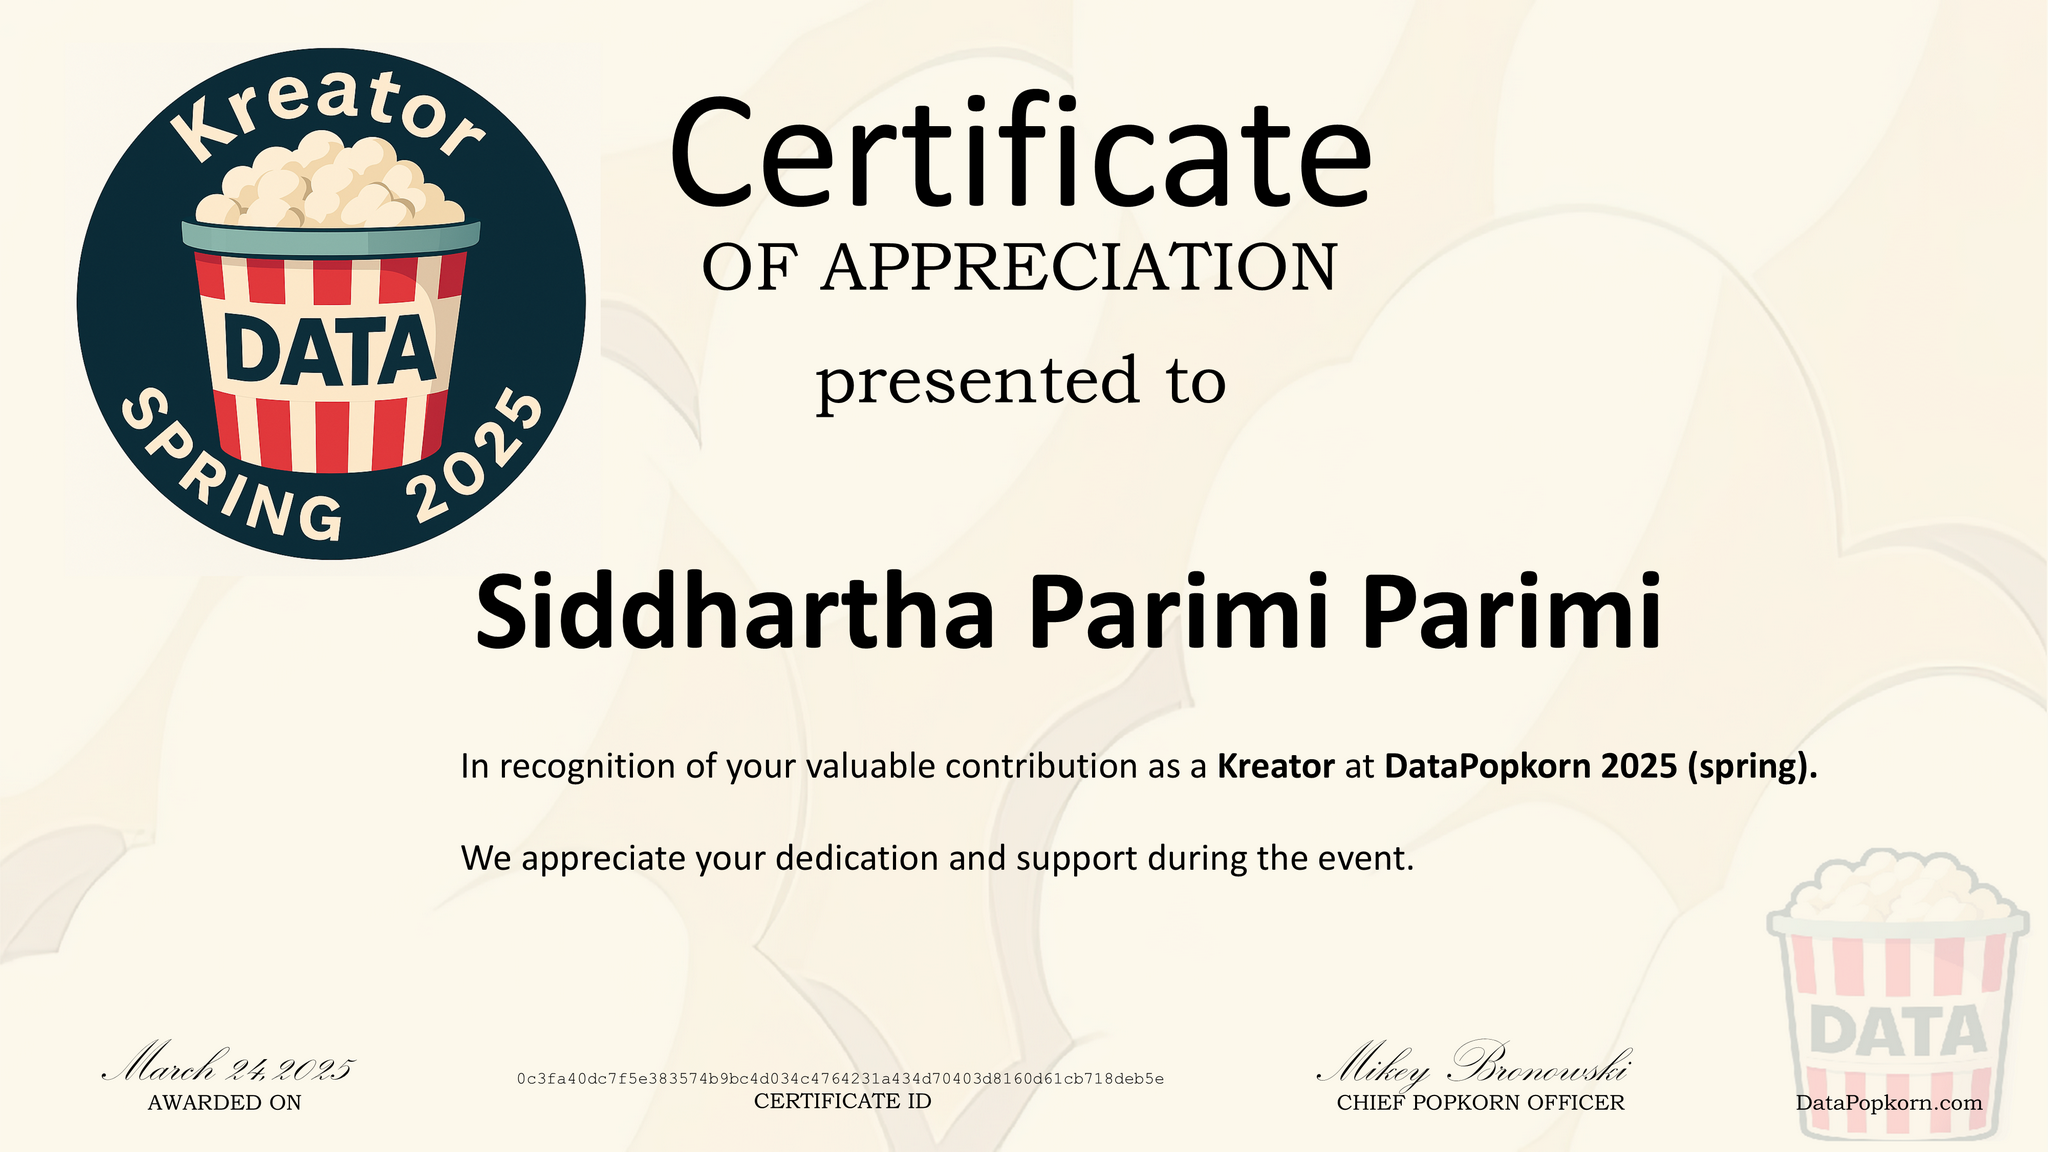
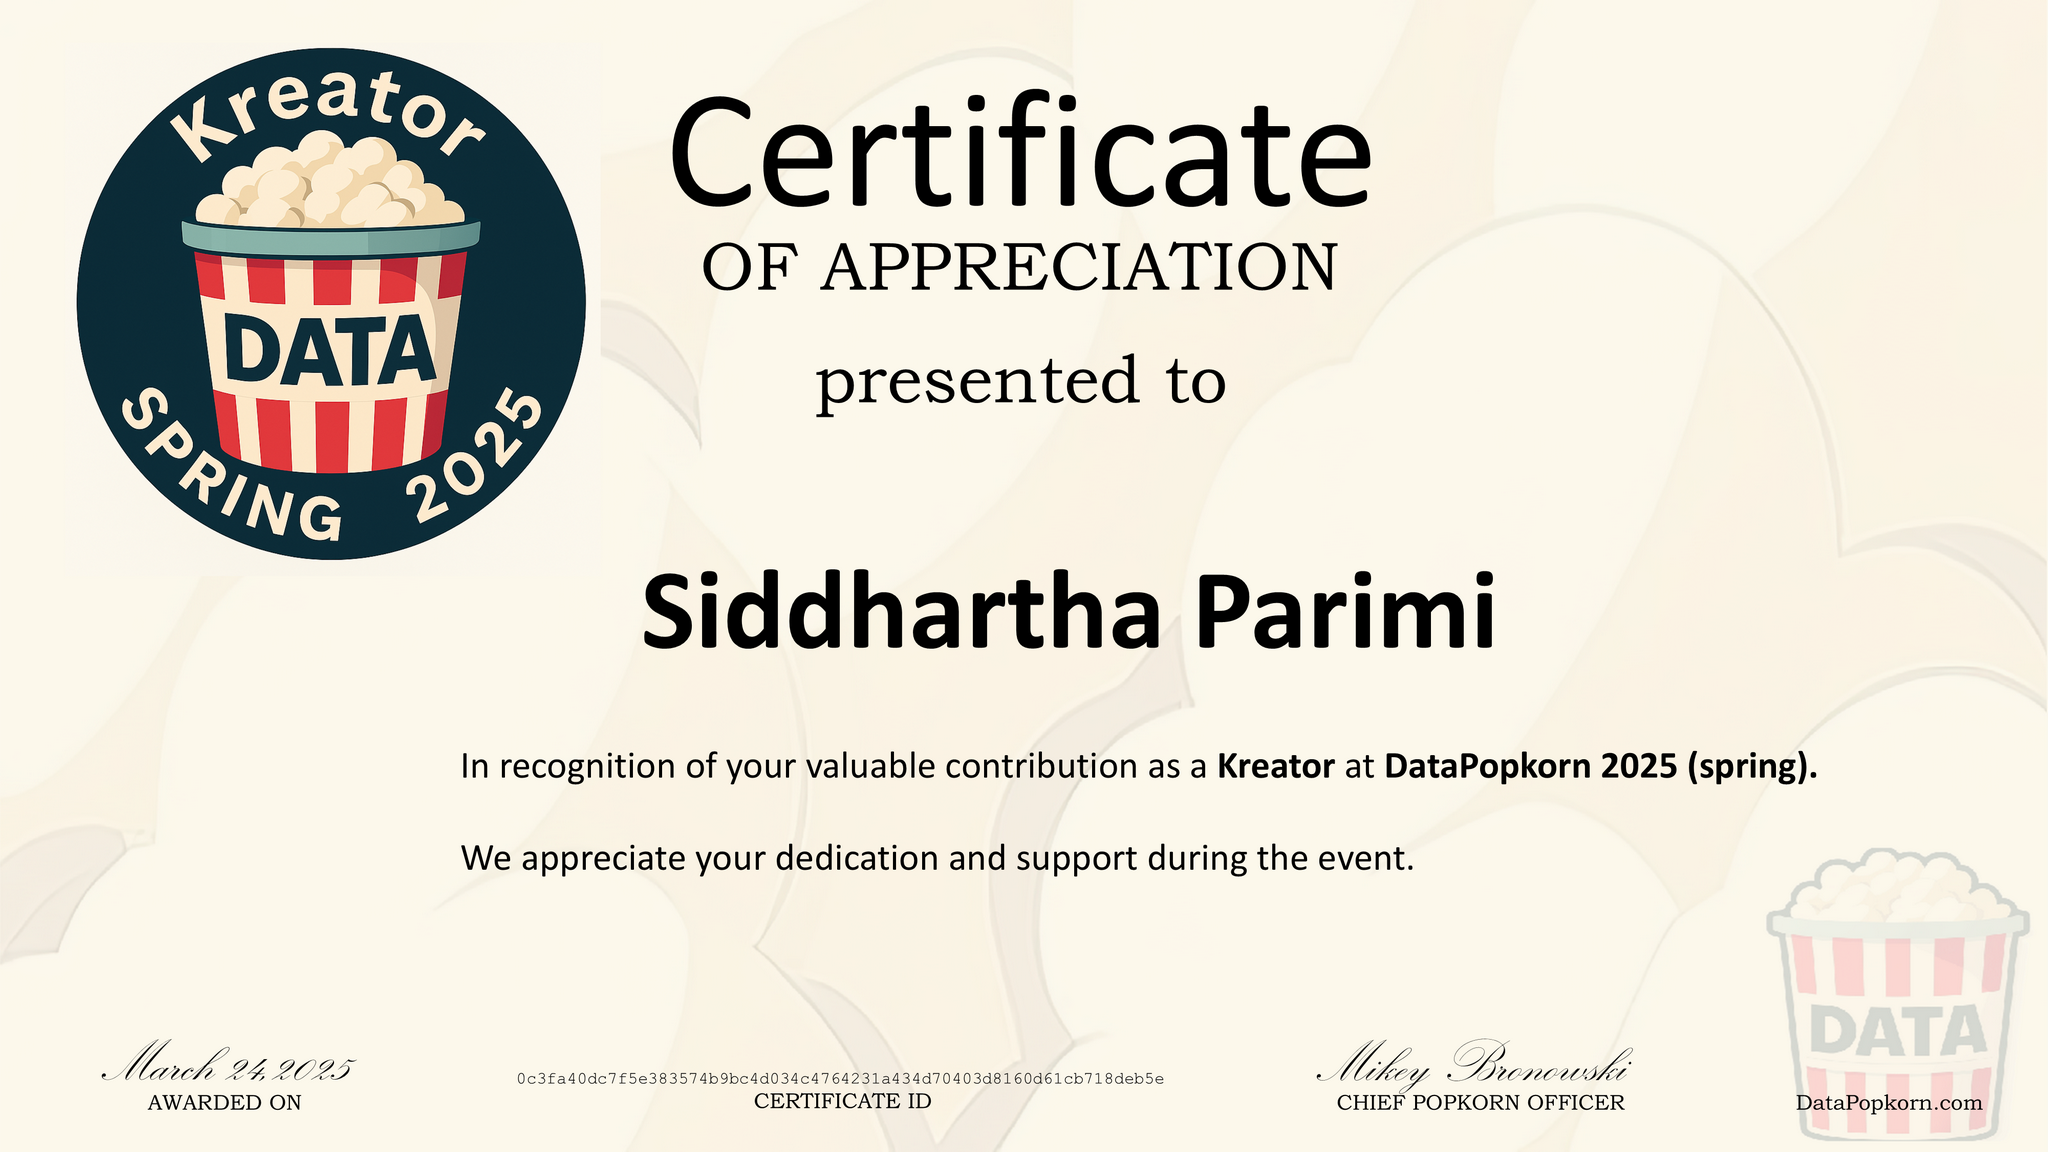
kreator/siddhartha-parimi.html

Changed region(s): [[0.2188, 0.5, 0.8125, 0.5625]]

diff --git a/badge/0c3fa40dc7f5e383574b9bc4d034c4764231a434d70403d8160d61cb718deb5e.html b/badge/0c3fa40dc7f5e383574b9bc4d034c4764231a434d70403d8160d61cb718deb5e.html
@@ -9,7 +9,7 @@
 </head>
 <body>
   <h1>DataPopKorn Kreator Badge</h1>
-  <p>This badge was issued to <a href="../kreator/siddhartha-parimi-parimi">Siddhartha Parimi Parimi</a> on March 24, 2025</p>
+  <p>This badge was issued to <a href="../kreator/siddhartha-parimi">Siddhartha Parimi</a> on March 24, 2025</p>
   <img id="badgeImage" class="badge" src="0c3fa40dc7f5e383574b9bc4d034c4764231a434d70403d8160d61cb718deb5e-2048.png" alt="Certificate" />
   <p><a href="0c3fa40dc7f5e383574b9bc4d034c4764231a434d70403d8160d61cb718deb5e.png" download>Download Full Size Image</a></p>
   <!-- The Modal -->

diff --git a/kreator/siddhartha-parimi.html b/kreator/siddhartha-parimi.html
@@ -7,7 +7,7 @@
   <link rel="stylesheet" href="../badge/bin/styles.css">
 </head>
 <body>
-  <h1><strong>Siddhartha Parimi Parimi</strong></h1>
+  <h1><strong>Siddhartha Parimi</strong></h1>
   <p>Kreator at DataPopkorn</p>
   <div class="badge-container">
     <a href="../badge/0c3fa40dc7f5e383574b9bc4d034c4764231a434d70403d8160d61cb718deb5e">
